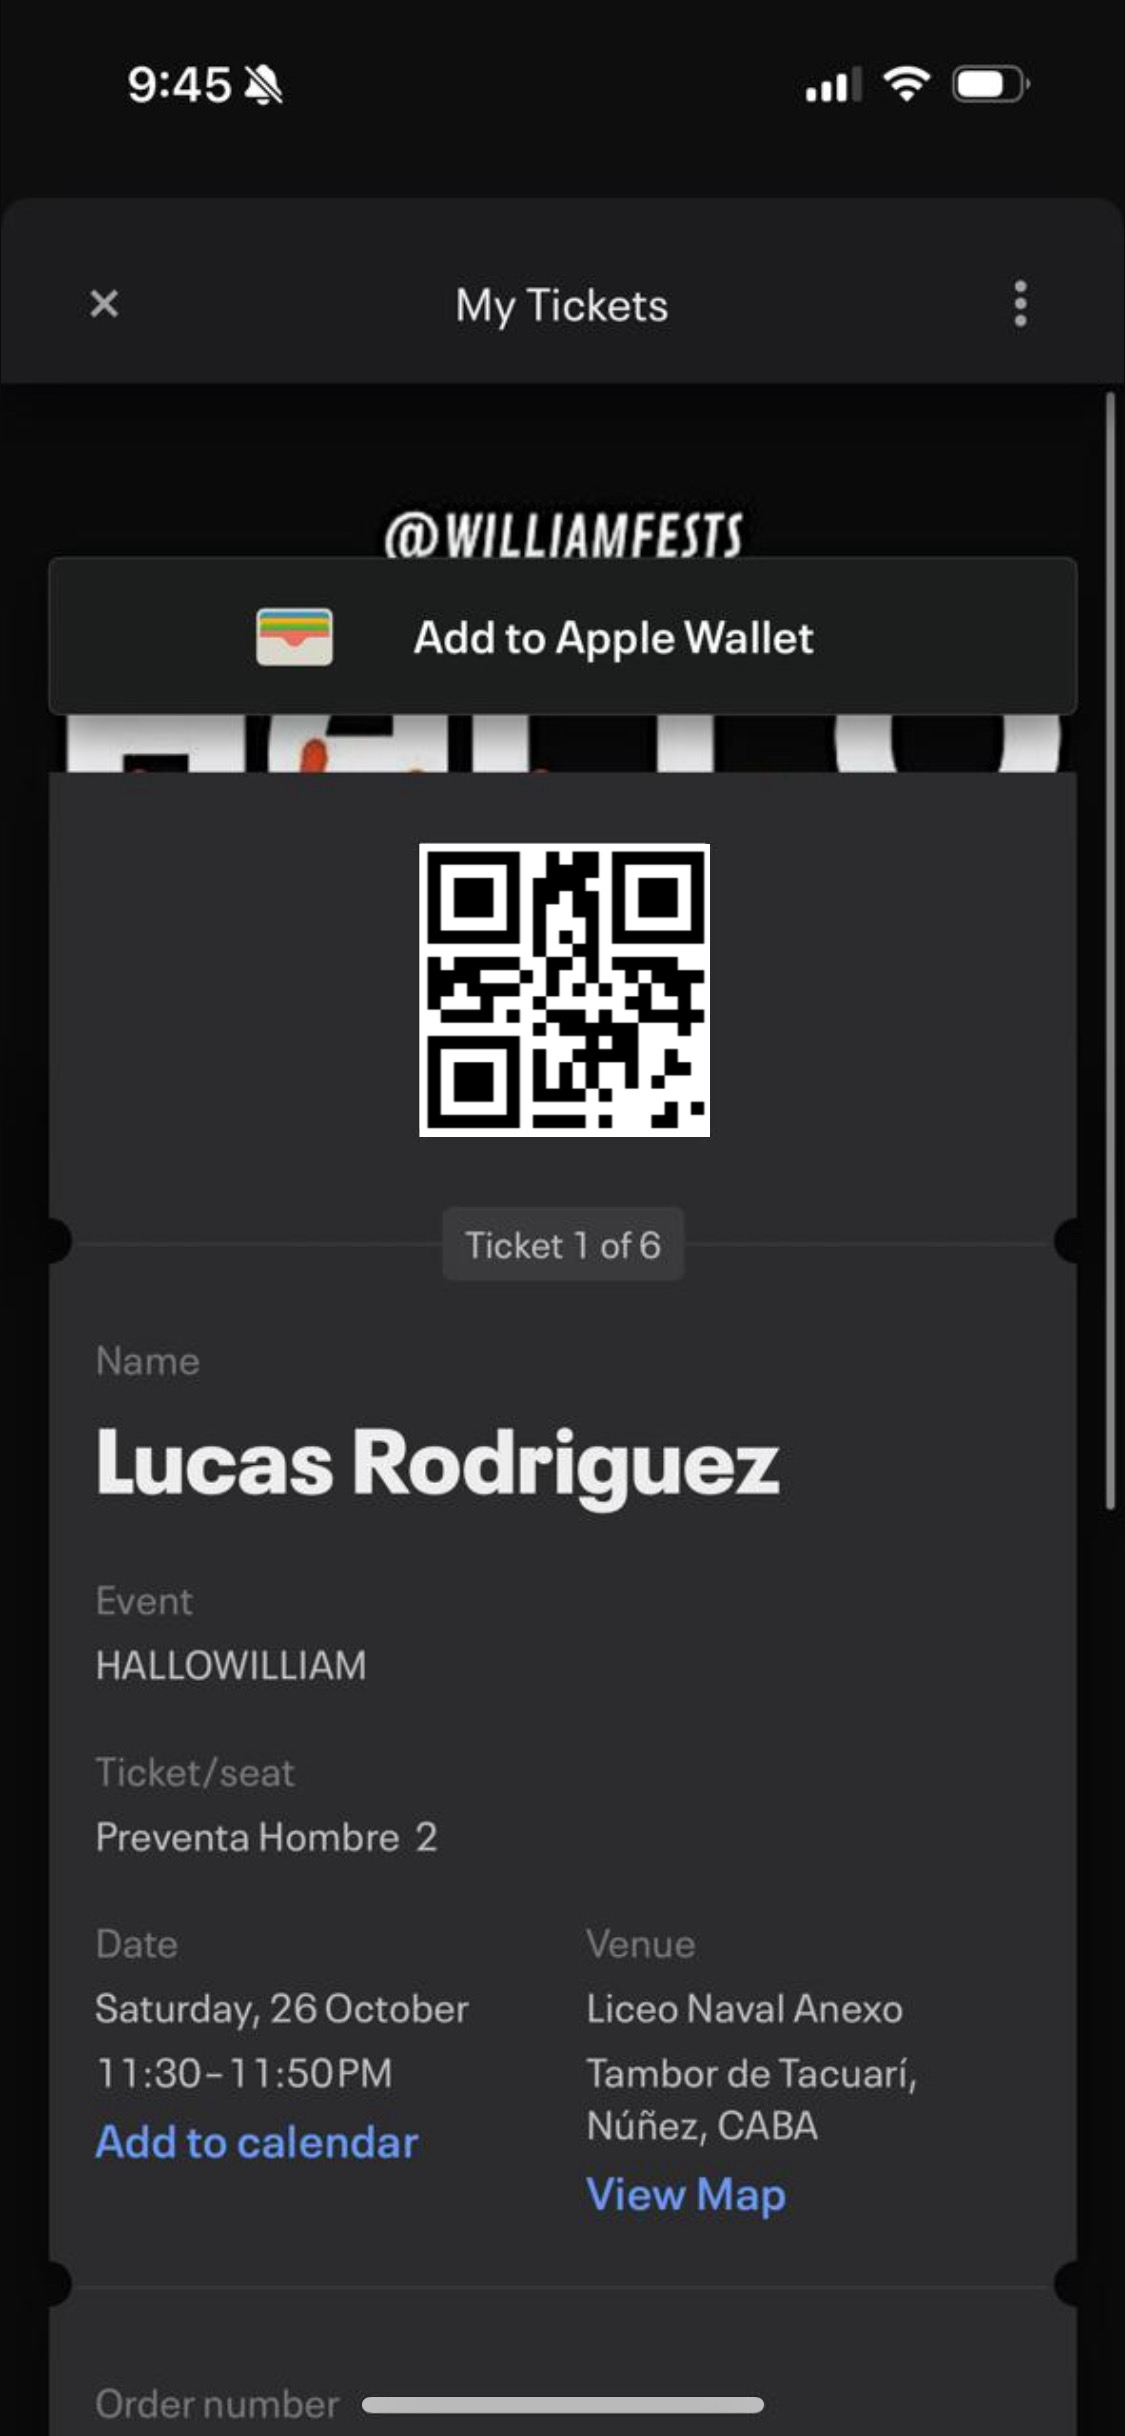
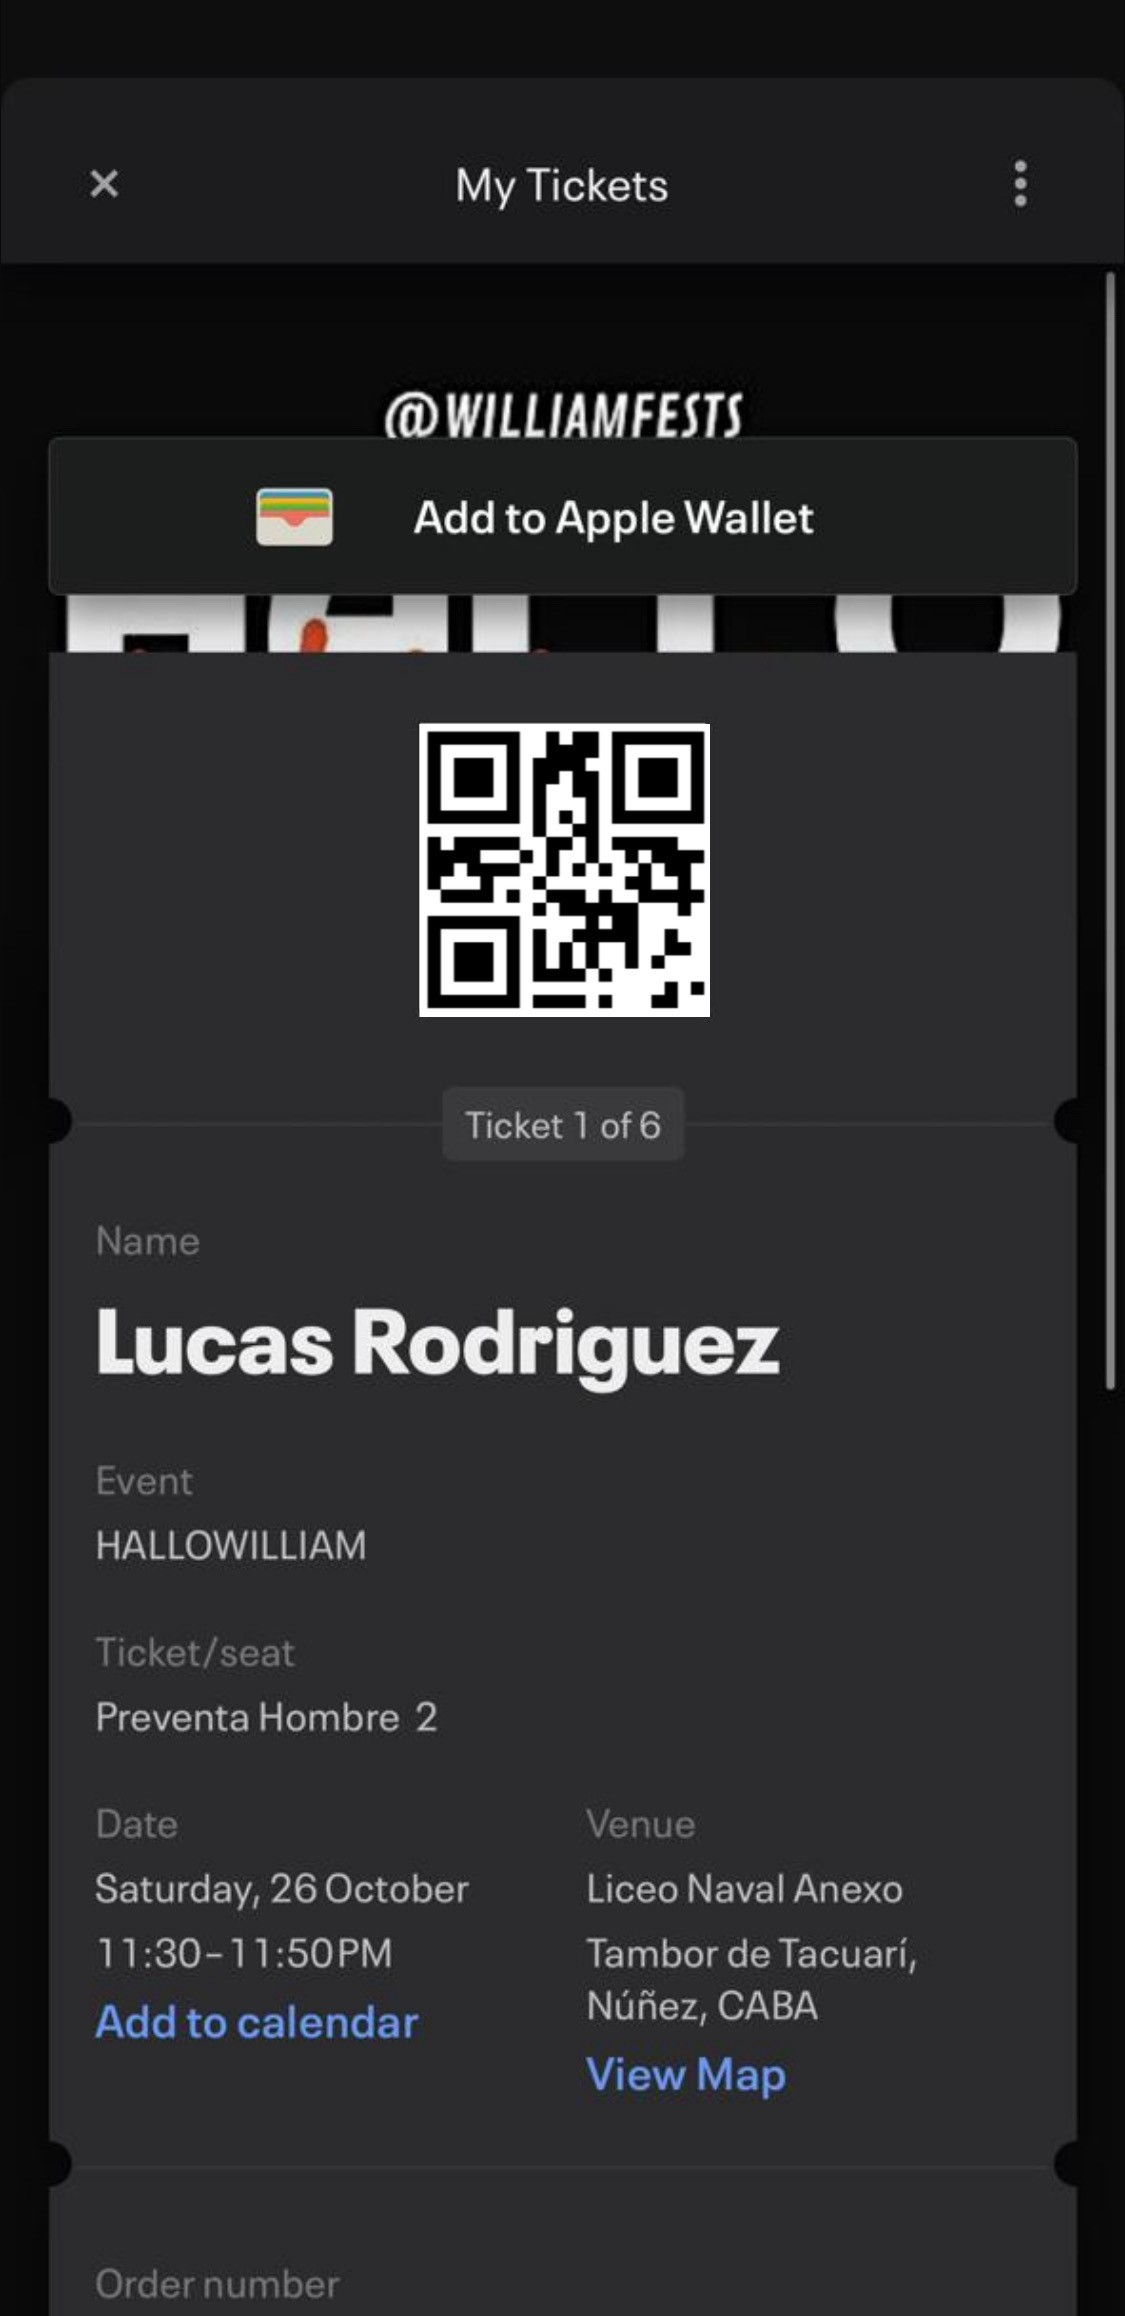
Paginas listas. falta router.

diff --git a/src/components/qr1.vue b/src/components/qr1.vue
@@ -1,10 +1,13 @@
 <template>
-    <v-container class="bg-red d-flex flex-column align-center justify-center w-100 h-100 pa-0" style="">
-        <v-container class="bg-yellow  d-flex flex-column align-center justify-center w-100 h-100">
-            <img src=""/>
-        </v-container>
-        <v-container class="bg-green  d-flex flex-column align-center justify-center w-100 h-100">
+    <v-container class="bg-black d-flex flex-column align-center justify-center w-100 h-100 pa-0" style="">
+        <v-btn class="bg-blue" style="height: 82px; width: 82px; position: absolute; top: 40px; left: 30px;">
 
+        </v-btn>
+        <v-container class="bg-yellow  d-flex flex-column align-center justify-center w-100 h-100 pa-0">
+            <img src="/src/assets/imgs/qr1.jpeg" class="w-100 h-100 ma-0" style="object-fit: cover;" />
+        </v-container>
+        <v-container class="bg-green  d-flex flex-column align-center justify-center w-100 h-100 pa-0">
+            <img src="/src/assets/imgs/under.jpg" class="w-100 h-100 ma-0" style="object-fit: cover;" />
         </v-container>
     </v-container>
 </template>

diff --git a/src/components/tickets.vue b/src/components/tickets.vue
@@ -1,0 +1,10 @@
+<template>
+    <v-container class="bg-black d-flex flex-column align-center justify-center w-100 h-100 pa-0" style="">
+        <v-btn class="bg-blue" style="height: 82px; width: 200px; position: absolute; top: 65vh; left: 15vh;">
+
+        </v-btn>
+        <v-container class="bg-yellow  d-flex flex-column align-center justify-center w-100 h-100 pa-0">
+            <img src="/src/assets/imgs/tickets.jpg" class="w-100 h-100 ma-0" style="object-fit: cover;" />
+        </v-container>
+    </v-container>
+</template>

diff --git a/src/App.vue b/src/App.vue
@@ -1,7 +1,8 @@
 <template>
   <v-app>
     <v-main>
-      <Qr1></Qr1>
+      <!--<Qr1></Qr1>-->
+      <Tickets></Tickets>
     </v-main>
 
 
@@ -10,6 +11,7 @@
 
 <script setup>
   import Qr1 from './components/qr1.vue';
+  import Tickets from './components/tickets.vue';
 
   //
 </script>
